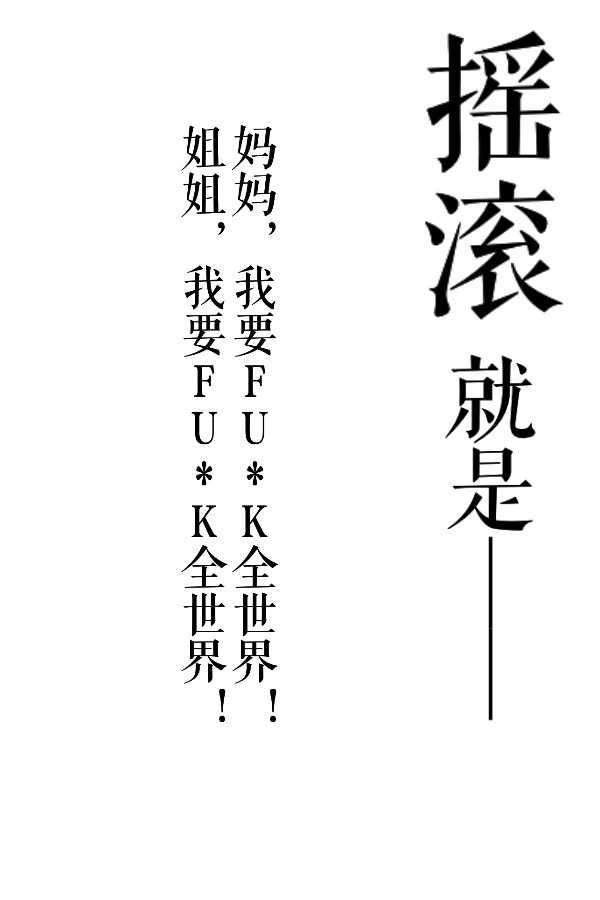
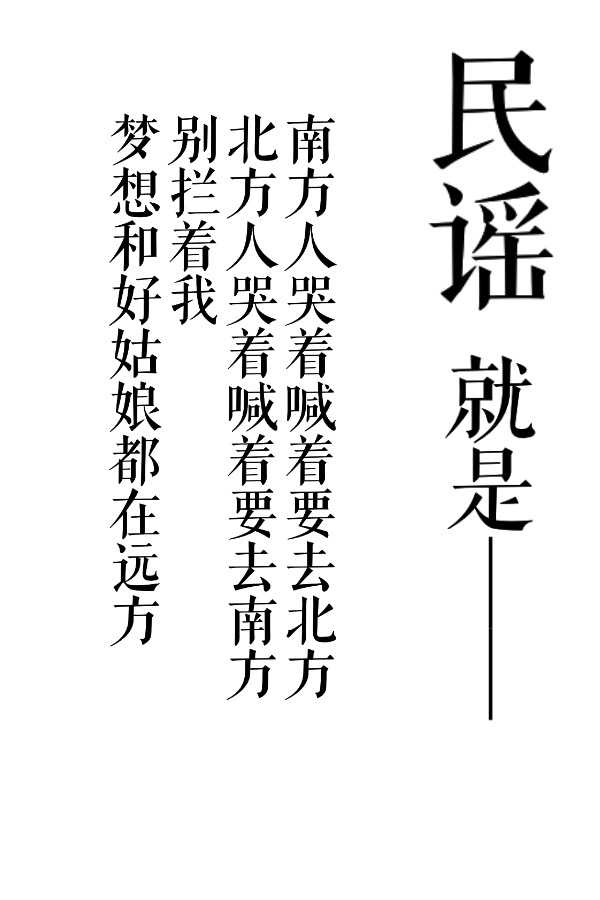
Site updated: 2017-11-01 16:39:57

Changed region(s): [[0.18, 0.1244, 0.57, 0.8089], [0.69, 0.0311, 0.93, 0.3733]]

diff --git a/2017/10/31/1101/index.html b/2017/10/31/1101/index.html
@@ -88,19 +88,22 @@
 
 
 
-<meta name="description" content="知乎上看到两张图片巨没有意思所以贴出来看看">
+<meta name="description" content="最牛逼的代码hellw world，但我为什么总想在里面加个f打头的动词呢  想着毕竟第一篇文，起什么标题好呢，想的头快炸了也没想出来，那就hello world吧。">
 <meta property="og:type" content="article">
-<meta property="og:title" content="摇滚和民谣（滑稽）">
-<meta property="og:url" content="http://chzpmax.piercebrands.top/2017/10/31/hello-world/index.html">
+<meta property="og:title" content="Hello world!">
+<meta property="og:url" content="http://chzpmax.piercebrands.top/2017/10/31/1101/index.html">
 <meta property="og:site_name" content="ChzpMax随笔">
-<meta property="og:description" content="知乎上看到两张图片巨没有意思所以贴出来看看">
+<meta property="og:description" content="最牛逼的代码hellw world，但我为什么总想在里面加个f打头的动词呢  想着毕竟第一篇文，起什么标题好呢，想的头快炸了也没想出来，那就hello world吧。">
 <meta property="og:locale" content="zh-Hans">
 <meta property="og:image" content="http://chzpmax.piercebrands.top/images/a1_p1.jpg">
+<meta property="og:image" content="http://chzpmax.piercebrands.top/images/a1_p4.jpg">
+<meta property="og:image" content="http://chzpmax.piercebrands.top/images/a1_p5.png">
 <meta property="og:image" content="http://chzpmax.piercebrands.top/images/a1_p2.jpg">
-<meta property="og:updated_time" content="2017-11-01T07:39:58.294Z">
+<meta property="og:image" content="http://chzpmax.piercebrands.top/images/a1_p3.jpg">
+<meta property="og:updated_time" content="2017-11-01T08:39:16.296Z">
 <meta name="twitter:card" content="summary">
-<meta name="twitter:title" content="摇滚和民谣（滑稽）">
-<meta name="twitter:description" content="知乎上看到两张图片巨没有意思所以贴出来看看">
+<meta name="twitter:title" content="Hello world!">
+<meta name="twitter:description" content="最牛逼的代码hellw world，但我为什么总想在里面加个f打头的动词呢  想着毕竟第一篇文，起什么标题好呢，想的头快炸了也没想出来，那就hello world吧。">
 <meta name="twitter:image" content="http://chzpmax.piercebrands.top/images/a1_p1.jpg">
 
 
@@ -131,13 +134,13 @@
 
 
 
-  <link rel="canonical" href="http://chzpmax.piercebrands.top/2017/10/31/hello-world/"/>
+  <link rel="canonical" href="http://chzpmax.piercebrands.top/2017/10/31/1101/"/>
 
 
 
 
 
-  <title>摇滚和民谣（滑稽） | ChzpMax随笔</title>
+  <title>Hello world! | ChzpMax随笔</title>
   
 
 
@@ -245,7 +248,7 @@
   
   
   <div class="post-block">
-    <link itemprop="mainEntityOfPage" href="http://chzpmax.piercebrands.top/2017/10/31/hello-world/">
+    <link itemprop="mainEntityOfPage" href="http://chzpmax.piercebrands.top/2017/10/31/1101/">
 
     <span hidden itemprop="author" itemscope itemtype="http://schema.org/Person">
       <meta itemprop="name" content="ChzpMax">
@@ -262,7 +265,7 @@
 
         
         
-          <h1 class="post-title" itemprop="name headline">摇滚和民谣（滑稽）</h1>
+          <h1 class="post-title" itemprop="name headline">Hello world!</h1>
         
 
         <div class="post-meta">
@@ -313,10 +316,42 @@
 
       
         <blockquote>
-<p>知乎上看到两张图片巨没有意思所以贴出来看看</p>
+<p>最牛逼的代码hellw world，但我为什么总想在里面加个f打头的动词呢</p>
 </blockquote>
+<p>想着毕竟第一篇文，起什么标题好呢，想的头快炸了也没想出来，那就hello world吧。</p>
 <a id="more"></a>
-<p><img src="/images/a1_p1.jpg" alt=""><br><img src="/images/a1_p2.jpg" alt=""></p>
+<h1 id="游戏"><a href="#游戏" class="headerlink" title="游戏"></a>游戏</h1><p><strong>正篇了啊（敲黑板）</strong></p>
+<p>好歹也要和标题扯上点关系呀，来两款”世界”级的游戏！你身处的世界…</p>
+<h2 id="WILL-美好世界"><a href="#WILL-美好世界" class="headerlink" title="WILL:美好世界"></a>WILL:美好世界</h2><p>前段时间在steam上看到一款国人做的游戏，名字叫 “<strong><a href="http://http://store.steampowered.com/app/588040/WILL_A_Wonderful_World__WILL/" target="_blank" rel="external">WILL:美好世界</a></strong>“ 是款文字AVG游戏，画风看着特舒坦的那种，在游戏里你是一位神，每天的工作就是阅读人们寄来的信，看着信上人类倾吐的烦恼，你可以将信件中的内容随意调换顺序，来改变他们的人生轨迹，并发现隐藏在这个世界背后的故事。越到后期事件的交织和互相影响越来越多，越来越严重，游戏的整体剧情也由“S”评级才算过关看故事，变成了“Bad”（最差评级）才能继续看故事。越晚越心塞呀，最后到了”神”也无法挽回的地步。有时候想想很多事情还是随他去的好…管的太多，执念太多，想抽身，又放不下。人呀…</p>
+<p><img src="/images/a1_p1.jpg" alt=""></p>
+<h2 id="没有人知道的大冒险"><a href="#没有人知道的大冒险" class="headerlink" title="没有人知道的大冒险"></a>没有人知道的大冒险</h2><p>简单的东西，更能直击你的心灵，”<strong><a href="http://store.steampowered.com/app/604450/Another_Adventure/" target="_blank" rel="external">没有人知道的大冒险</a></strong>“就是这种游戏了吧，用简单的画面，故事，来讲述4位普通人的最普通的一天。普通的可怕，太扎心了。</p>
+<ul>
+<li>阿强是个有梦想的大学生，他每天晚上都会把闹钟定到次日早上6点。</li>
+<li>阿杰是个想改变世界的程序员。虽然他并不喜欢他目前工作的这家位于西二旗的公司，但仍然觉得有必要先积累些大公司的工作经验，好为以后去改变世界积蓄力量。</li>
+<li>阿清觉得工作是件很无聊的事。与其成天幻想着怎么去改变世界，倒不如先掂量掂量自己的水平，不被世界改变已是万幸了，他一边这么想着，一边踏上了只属于自己的诗和远方。</li>
+<li>阿民……..</li>
+</ul>
+<p><em>“明天，他期盼着明天，可是他本该摒弃明天的，这种切肤之痛的反抗，就是荒诞。”</em></p>
+<p>每天都在重复同一件事情，每天关心国家大事（刷微博），听歌（文艺），聊聊天，美好的一天又过去辣！梦想，梦想在明天..</p>
+<p><img src="/images/a1_p4.jpg" alt=""></p>
+<h1 id="歌"><a href="#歌" class="headerlink" title="歌"></a>歌</h1><p><strong>聊完游戏就想到一首歌,当然要切合主题哈</strong></p>
+<h2 id="下雨"><a href="#下雨" class="headerlink" title="下雨"></a>下雨</h2><blockquote>
+<p>歌词：hello kitty hello你妈逼的kitty，大概可以换成world?</p>
+</blockquote>
+<p>才发现，QQ，虾米，网易云都找不到了呀。这就很奇妙了（滑稽）</p>
+<p><img src="/images/a1_p5.png" alt=""></p>
+<p>貌似给禁了？看来只能自己去找了~ </p>
+<p>李志-下雨</p>
+<h2 id="两张图"><a href="#两张图" class="headerlink" title="两张图"></a>两张图</h2><blockquote>
+<p>然后就在知乎上看到两张图片巨没有意思所以贴出来看看</p>
+</blockquote>
+<p><img src="/images/a1_p2.jpg" alt=""><br><img src="/images/a1_p3.jpg" alt=""></p>
+<h1 id="结束"><a href="#结束" class="headerlink" title="结束"></a>结束</h1><p>虽然是hello wolrd，但通篇跟程序P关系没有啊！要的就是这个效果！</p>
+<p><strong>emmm，最后点下题哈（敲黑板），hello wolrd! 结束！</strong></p>
+<p>附：</p>
+<p>WILL:美好世界 steam:<br><a href="http://store.steampowered.com/app/588040/WILL_A_Wonderful_World__WILL/" target="_blank" rel="external">http://store.steampowered.com/app/588040/WILL_A_Wonderful_World__WILL/</a></p>
+<p>没有人知道的大冒险 steam:<br><a href="http://store.steampowered.com/app/604450/Another_Adventure/" target="_blank" rel="external">http://store.steampowered.com/app/604450/Another_Adventure/</a></p>
+<p>听不了，我还不能看么！：”<strong><a href="https://www.bilibili.com/video/av9285062" target="_blank" rel="external">李志-下雨</a></strong>“</p>
 
       
     </div>
@@ -430,8 +465,17 @@
       
 
       
+        <ul class="sidebar-nav motion-element">
+          <li class="sidebar-nav-toc sidebar-nav-active" data-target="post-toc-wrap">
+            文章目录
+          </li>
+          <li class="sidebar-nav-overview" data-target="site-overview-wrap">
+            站点概览
+          </li>
+        </ul>
+      
 
-      <section class="site-overview-wrap sidebar-panel sidebar-panel-active">
+      <section class="site-overview-wrap sidebar-panel">
         <div class="site-overview">
           <div class="site-author motion-element" itemprop="author" itemscope itemtype="http://schema.org/Person">
             
@@ -500,6 +544,22 @@
         </div>
       </section>
 
+      
+      <!--noindex-->
+        <section class="post-toc-wrap motion-element sidebar-panel sidebar-panel-active">
+          <div class="post-toc">
+
+            
+              
+            
+
+            
+              <div class="post-toc-content"><ol class="nav"><li class="nav-item nav-level-1"><a class="nav-link" href="#游戏"><span class="nav-number">1.</span> <span class="nav-text">游戏</span></a><ol class="nav-child"><li class="nav-item nav-level-2"><a class="nav-link" href="#WILL-美好世界"><span class="nav-number">1.1.</span> <span class="nav-text">WILL:美好世界</span></a></li><li class="nav-item nav-level-2"><a class="nav-link" href="#没有人知道的大冒险"><span class="nav-number">1.2.</span> <span class="nav-text">没有人知道的大冒险</span></a></li></ol></li><li class="nav-item nav-level-1"><a class="nav-link" href="#歌"><span class="nav-number">2.</span> <span class="nav-text">歌</span></a><ol class="nav-child"><li class="nav-item nav-level-2"><a class="nav-link" href="#下雨"><span class="nav-number">2.1.</span> <span class="nav-text">下雨</span></a></li><li class="nav-item nav-level-2"><a class="nav-link" href="#两张图"><span class="nav-number">2.2.</span> <span class="nav-text">两张图</span></a></li></ol></li><li class="nav-item nav-level-1"><a class="nav-link" href="#结束"><span class="nav-number">3.</span> <span class="nav-text">结束</span></a></li></ol></div>
+            
+
+          </div>
+        </section>
+      <!--/noindex-->
       
 
       

diff --git a/index.html b/index.html
@@ -242,7 +242,7 @@
   
   
   <div class="post-block">
-    <link itemprop="mainEntityOfPage" href="http://chzpmax.piercebrands.top/2017/10/31/hello-world/">
+    <link itemprop="mainEntityOfPage" href="http://chzpmax.piercebrands.top/2017/10/31/1101/">
 
     <span hidden itemprop="author" itemscope itemtype="http://schema.org/Person">
       <meta itemprop="name" content="ChzpMax">
@@ -261,7 +261,7 @@
         
           <h1 class="post-title" itemprop="name headline">
                 
-                <a class="post-title-link" href="/2017/10/31/hello-world/" itemprop="url">摇滚和民谣（滑稽）</a></h1>
+                <a class="post-title-link" href="/2017/10/31/1101/" itemprop="url">Hello world!</a></h1>
         
 
         <div class="post-meta">
@@ -313,11 +313,12 @@
       
         
           <blockquote>
-<p>知乎上看到两张图片巨没有意思所以贴出来看看</p>
+<p>最牛逼的代码hellw world，但我为什么总想在里面加个f打头的动词呢</p>
 </blockquote>
+<p>想着毕竟第一篇文，起什么标题好呢，想的头快炸了也没想出来，那就hello world吧。</p>
           <!--noindex-->
           <div class="post-button text-center">
-            <a class="btn" href="/2017/10/31/hello-world/#more" rel="contents">
+            <a class="btn" href="/2017/10/31/1101/#more" rel="contents">
               阅读全文 &raquo;
             </a>
           </div>

diff --git a/archives/2017/10/index.html b/archives/2017/10/index.html
@@ -264,9 +264,9 @@
 
       <h2 class="post-title">
         
-            <a class="post-title-link" href="/2017/10/31/hello-world/" itemprop="url">
+            <a class="post-title-link" href="/2017/10/31/1101/" itemprop="url">
               
-                <span itemprop="name">摇滚和民谣（滑稽）</span>
+                <span itemprop="name">Hello world!</span>
               
             </a>
         

diff --git a/archives/2017/index.html b/archives/2017/index.html
@@ -264,9 +264,9 @@
 
       <h2 class="post-title">
         
-            <a class="post-title-link" href="/2017/10/31/hello-world/" itemprop="url">
+            <a class="post-title-link" href="/2017/10/31/1101/" itemprop="url">
               
-                <span itemprop="name">摇滚和民谣（滑稽）</span>
+                <span itemprop="name">Hello world!</span>
               
             </a>
         

diff --git a/archives/index.html b/archives/index.html
@@ -264,9 +264,9 @@
 
       <h2 class="post-title">
         
-            <a class="post-title-link" href="/2017/10/31/hello-world/" itemprop="url">
+            <a class="post-title-link" href="/2017/10/31/1101/" itemprop="url">
               
-                <span itemprop="name">摇滚和民谣（滑稽）</span>
+                <span itemprop="name">Hello world!</span>
               
             </a>
         
